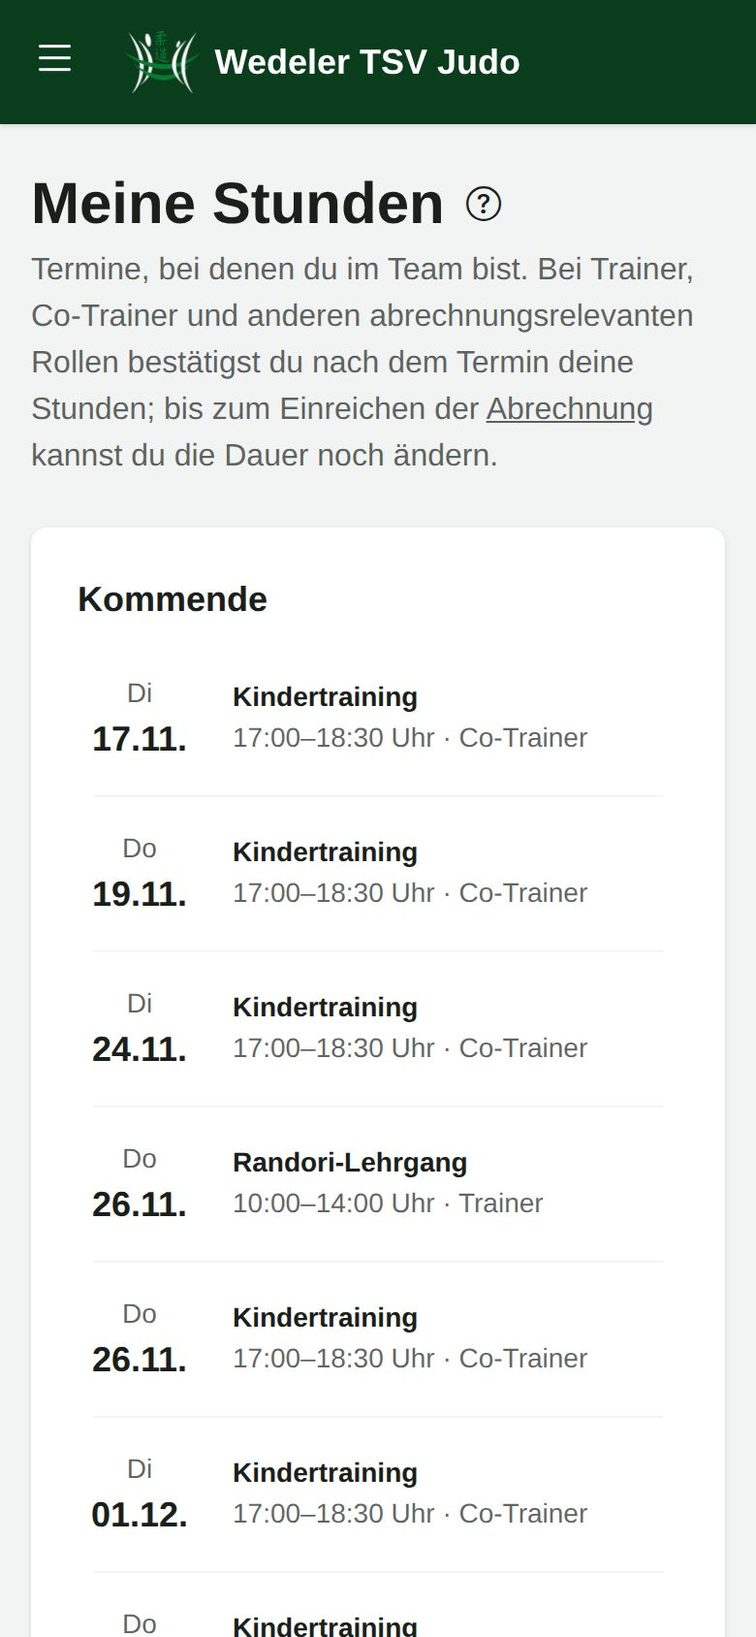
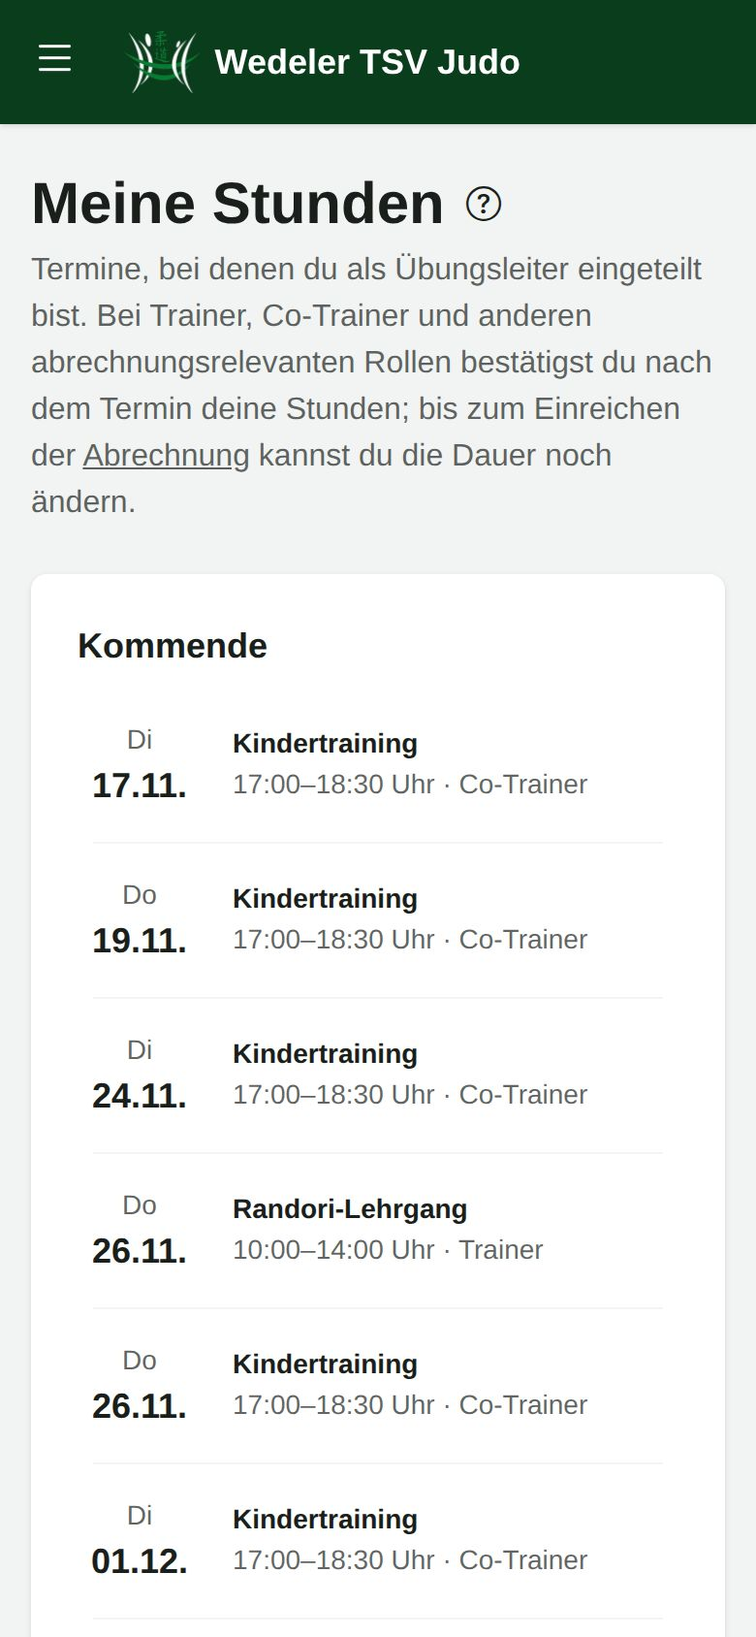
feat: „Übungsleiter“ statt „Team“ in Oberfläche, Hilfe und Doku
Überall, wo Trainer, Co-Trainer, Prüfer oder Betreuer gemeint sind, steht jetzt
„Übungsleiter“. Das Standard-Team eines Zeitplans heißt „feste Übungsleiter“
(„fest einteilen“). Im Code bleibt es bei `team`; CLAUDE.md nennt den Begriff.

Claude-Session: https://claude.ai/code/session_017LHgXea5AxfRcr57bsDwjB

diff --git a/portal/events/templates/events/occurrence_detail.html b/portal/events/templates/events/occurrence_detail.html
@@ -27,7 +27,7 @@
       <div><dt class="text-sm text-base-content/70">Anmeldung</dt><dd>{% if window == "before" %}ab {{ occurrence.registration_opens|date:"d.m.Y H:i" }} Uhr{% elif window == "open" %}offen bis {{ occurrence.registration_closes|date:"d.m.Y H:i" }} Uhr{% else %}geschlossen{% endif %}</dd></div>
       <div><dt class="text-sm text-base-content/70">Plätze</dt><dd>{{ registered }}{% if event.capacity %} von {{ event.capacity }}{% endif %} angemeldet</dd></div>
       {% if event.target_groups.all %}<div><dt class="text-sm text-base-content/70">Für</dt><dd>{% for group in event.target_groups.all %}{{ group }}{% if not forloop.last %}, {% endif %}{% endfor %}</dd></div>{% endif %}
-      <div><dt class="text-sm text-base-content/70">Team</dt><dd>{% for p in team %}{{ p.member.display_name }} ({{ p.role.name }}){% if not forloop.last %}, {% endif %}{% empty %}–{% endfor %}</dd></div>
+      <div><dt class="text-sm text-base-content/70">Übungsleiter</dt><dd>{% for p in team %}{{ p.member.display_name }} ({{ p.role.name }}){% if not forloop.last %}, {% endif %}{% empty %}–{% endfor %}</dd></div>
     </dl>
     {% if event.description %}<p class="whitespace-pre-line">{{ event.description }}</p>{% endif %}
     {% if occurrence.note %}<div role="note" class="alert"><i class="bi bi-info-circle" aria-hidden="true"></i><span>{{ occurrence.note }}</span></div>{% endif %}
@@ -41,7 +41,7 @@
       <li class="list-row items-center px-0">
         <div class="list-col-grow">
           <div class="font-semibold">{{ member_link.member.display_name }}</div>
-          <div class="text-sm text-base-content/70">{% if item.team_role %}im Team als {{ item.team_role.name }}{% elif item.status == "registered" %}angemeldet{% if item.participation.weight %} · {{ item.participation.weight|floatformat:1 }} kg{% endif %}{% elif item.status == "waitlist" %}auf der Warteliste{% elif item.status == "cancelled" %}abgemeldet{% elif item.match == 0 %}passt nicht zur Zielgruppe{% else %}nicht angemeldet{% endif %}</div>
+          <div class="text-sm text-base-content/70">{% if item.team_role %}als {{ item.team_role.name }} eingeteilt{% elif item.status == "registered" %}angemeldet{% if item.participation.weight %} · {{ item.participation.weight|floatformat:1 }} kg{% endif %}{% elif item.status == "waitlist" %}auf der Warteliste{% elif item.status == "cancelled" %}abgemeldet{% elif item.match == 0 %}passt nicht zur Zielgruppe{% else %}nicht angemeldet{% endif %}</div>
         </div>
         {% if item.can_register %}<a class="btn btn-primary btn-sm" href="{% url 'register' occurrence.pk member_link.member.pk %}" aria-label="{{ member_link.member.first_name }} anmelden">Anmelden</a>
         {% elif item.can_unregister %}<form method="post" action="{% url 'unregister' occurrence.pk member_link.member.pk %}">{% csrf_token %}<button class="btn btn-outline btn-sm" aria-label="{{ member_link.member.first_name }} abmelden">Abmelden</button></form>{% endif %}
@@ -53,7 +53,7 @@
 
   {% if lead or can_join_team %}
   <section class="card mb-6 bg-base-100 shadow-sm" aria-labelledby="h-team"><div class="card-body gap-4">
-    <h2 class="card-title" id="h-team">Team</h2>
+    <h2 class="card-title" id="h-team">Übungsleiter</h2>
     {% if team %}
     <ul class="list">
       {% for p in team %}
@@ -65,7 +65,7 @@
       </li>
       {% endfor %}
     </ul>
-    {% else %}<p class="text-base-content/70">Noch niemand im Team.</p>{% endif %}
+    {% else %}<p class="text-base-content/70">Noch keine Übungsleiter eingeteilt.</p>{% endif %}
     {% if team_form %}
     <form method="post" action="{% url 'occurrence_team' occurrence.pk %}" class="flex flex-col gap-4">{% csrf_token %}
       <div class="grid gap-x-4 sm:grid-cols-2">{{ team_form }}</div>

diff --git a/portal/help/templates/help/chapters/veranstaltungen.html b/portal/help/templates/help/chapters/veranstaltungen.html
@@ -1,5 +1,5 @@
 {% load help %}
-<p>Unter <a href="{% url 'event_list' %}">Veranstaltungen</a> planst du Trainings, Wettkämpfe, Lehrgänge und Prüfungen. Übungsleiter sehen die Liste und planen Teams; anlegen und ändern kann die Abteilungsleitung.</p>
+<p>Unter <a href="{% url 'event_list' %}">Veranstaltungen</a> planst du Trainings, Wettkämpfe, Lehrgänge und Prüfungen. Übungsleiter sehen die Liste und teilen sich ein; anlegen und ändern kann die Abteilungsleitung.</p>
 
 <h2 id="anlegen">Veranstaltung anlegen</h2>
 <ol>
@@ -12,22 +12,22 @@
       <li><strong>Später festlegen:</strong> nur die Veranstaltung, Termine ergänzt du danach.</li>
     </ul>
   </li>
-  <li>Optional gleich das Team: Mitglied und Rolle.</li>
+  <li>Optional gleich einen Übungsleiter: Mitglied und Rolle.</li>
 </ol>
 {% screenshot "veranstaltung-anlegen" "Formular Veranstaltung anlegen mit Terminen" %}
 
 <h2 id="einstellungen">Vorlagen, Rollen und Arten</h2>
 <ul>
   <li><strong>Zielgruppen-Vorlagen:</strong> Zielgruppen, die du öfter brauchst, hakst du im Formular bei „Als Vorlage speichern“ an oder legst sie unter Veranstaltungen → Zielgruppen-Vorlagen an. Bei der nächsten Veranstaltung wählst du sie unter „Aus Vorlage übernehmen“. Die Veranstaltung bekommt eine Kopie: Änderst du die Vorlage später, bleiben bestehende Veranstaltungen, wie sie sind. Auf der Veranstaltung siehst du unter „Passende Mitglieder“, wer heute passt.</li>
-  <li><strong>Rollen:</strong> Teilnehmer, Trainer, Co-Trainer, Prüfer, Betreuer … – für welche Arten, welche Benutzerrollen, ob Team und ob abrechnungsrelevant.</li>
+  <li><strong>Rollen:</strong> Teilnehmer, Trainer, Co-Trainer, Prüfer, Betreuer … – für welche Arten, welche Benutzerrollen, ob Übungsleiter-Rolle und ob abrechnungsrelevant.</li>
   <li><strong>Veranstaltungsarten:</strong> Training, Wettkampf, Lehrgang, Prüfung, Sonstiges – erweiterbar.</li>
 </ul>
 
-<h2 id="zeitplaene">Zeitpläne und Standard-Team</h2>
-<p>Je Wochentag gibt es einen Zeitplan mit Standard-Team; kommende Termine übernehmen es. Neue Trainingszeiten: alten Zeitplan mit „Gültig bis“ beenden, neuen anlegen.</p>
+<h2 id="zeitplaene">Zeitpläne und feste Übungsleiter</h2>
+<p>Je Wochentag gibt es einen Zeitplan mit festen Übungsleitern; kommende Termine übernehmen sie. Neue Trainingszeiten: alten Zeitplan mit „Gültig bis“ beenden, neuen anlegen.</p>
 
 <h2 id="gaeste">Gäste</h2>
 <p>Mit „Gäste willkommen“ zeigt die Veranstaltung einen <strong>Anmeldelink</strong> zum Teilen, z. B. an andere Vereine. Gäste bestätigen ihre Anmeldung per Mail und sehen ihre Daten über ihren eigenen Link. Mit <strong>Neuen Link erzeugen</strong> wird der alte ungültig.</p>
 
 <h2 id="absagen">Ferien und Ausfälle</h2>
-<p>Auf der Veranstaltung „Termine absagen“ mit Zeitraum, dann <strong>Termine in diesem Zeitraum absagen</strong>. Angemeldete und Team bekommen eine Nachricht.</p>
+<p>Auf der Veranstaltung „Termine absagen“ mit Zeitraum, dann <strong>Termine in diesem Zeitraum absagen</strong>. Angemeldete und Übungsleiter bekommen eine Nachricht.</p>

diff --git a/e2e/veranstaltungen.spec.ts b/e2e/veranstaltungen.spec.ts
@@ -15,13 +15,13 @@ const TRAINER = { email: "clara@test.local", password: "Sicher-Trainer-789" };
 const PARENTS = { email: "eltern-zwei@test.local", password: "Sicher-Eltern-321" };
 const GUEST = { email: "lena-gast@test.local" };
 
-test("Lehrgang anlegen, Team eintragen, Kind mit Gewicht anmelden, Trainerin sieht Teilnehmer und bestätigt Stunden", async ({ browser }) => {
+test("Lehrgang anlegen, Übungsleiter eintragen, Kind mit Gewicht anmelden, Trainerin sieht Teilnehmer und bestätigt Stunden", async ({ browser }) => {
   const admin = await (await browser.newContext({ storageState: ADMIN_STATE })).newPage();
   await importMembers(admin);
   await ensureYouthGroup(admin);
   await expect(admin.getByText("Passen heute: 3")).toBeVisible();
 
-  // Übungsleiterin einladen und mit ihrem Mitgliedsprofil verknüpfen (Voraussetzung für Team-Rollen)
+  // Übungsleiterin einladen und mit ihrem Mitgliedsprofil verknüpfen (Voraussetzung für Übungsleiter-Rollen)
   await admin.goto("/verwaltung/benutzer/einladen/");
   await admin.getByLabel("E-Mail").fill(TRAINER.email);
   await admin.getByLabel("Vorname").fill("Clara");
@@ -43,7 +43,7 @@ test("Lehrgang anlegen, Team eintragen, Kind mit Gewicht anmelden, Trainerin sie
   await expect(admin.getByRole("link", { name: "Co-Trainer" })).toBeVisible();
   await expectNoA11yViolations(admin);
 
-  // Lehrgang mit Zielgruppe, Pflichtgewicht, Termin und Team in einem Schritt
+  // Lehrgang mit Zielgruppe, Pflichtgewicht, Termin und Übungsleiterin in einem Schritt
   await admin.goto("/veranstaltungen/neu/");
   await admin.getByLabel("Titel").fill("Randori-Lehrgang");
   await admin.getByLabel("Art").selectOption({ label: "Lehrgang" });
@@ -63,12 +63,12 @@ test("Lehrgang anlegen, Team eintragen, Kind mit Gewicht anmelden, Trainerin sie
   await expect(admin.getByText("„Randori-Lehrgang“ angelegt mit 1 Termin.")).toBeVisible();
   await expectNoA11yViolations(admin);
 
-  // Ein weiterer, schon vergangener Termin; das Team kommt am Termin dazu
+  // Ein weiterer, schon vergangener Termin; die Übungsleiterin kommt am Termin dazu
   await admin.getByRole("link", { name: "Termin", exact: true }).click();
   await admin.getByLabel("Beginn", { exact: true }).fill(localDateTime(-1, "10:00"));
   await admin.getByLabel("Ende", { exact: true }).fill(localDateTime(-1, "14:00"));
   await admin.getByRole("button", { name: "Speichern" }).click();
-  await expect(admin.getByText("Termin angelegt. Trag hier das Team ein.")).toBeVisible();
+  await expect(admin.getByText("Termin angelegt. Trag hier die Übungsleiter ein.")).toBeVisible();
   await admin.getByLabel("Mitglied").selectOption({ label: "Clara Clever" });
   await admin.getByLabel("Rolle").selectOption({ label: "Trainer" });
   await admin.getByRole("button", { name: "Eintragen oder Rolle ändern" }).click();

diff --git a/portal/events/templates/events/event_detail.html b/portal/events/templates/events/event_detail.html
@@ -40,7 +40,7 @@
 
   <section class="card mb-6 bg-base-100 shadow-sm" aria-labelledby="h-zeitplaene"><div class="card-body gap-4">
     <div class="flex flex-wrap items-center justify-between gap-3">
-      <div><h2 class="card-title" id="h-zeitplaene">Zeitpläne</h2><p class="text-sm text-base-content/70">Jeder Zeitplan hat sein Standard-Team; kommende Termine übernehmen es.</p></div>
+      <div><h2 class="card-title" id="h-zeitplaene">Zeitpläne</h2><p class="text-sm text-base-content/70">Jeder Zeitplan hat feste Übungsleiter; kommende Termine übernehmen sie.</p></div>
       {% if can_manage %}<a class="btn btn-outline btn-primary btn-sm" href="{% url 'schedule_create' event.pk %}"><i class="bi bi-plus-lg" aria-hidden="true"></i> Zeitplan</a>{% endif %}
     </div>
     {% for schedule in schedules %}
@@ -60,17 +60,17 @@
         {% for entry in schedule.team.all %}
         <li class="list-row items-center px-0">
           <div class="list-col-grow"><div class="font-semibold">{{ entry.member.display_name }}</div><div class="text-sm text-base-content/70">{{ entry.role.name }}</div></div>
-          <form method="post" action="{% url 'schedule_team_remove' event.pk schedule.pk entry.pk %}">{% csrf_token %}<button class="btn btn-outline btn-sm" aria-label="{{ entry.member.display_name }} aus dem Standard-Team von {{ schedule }} nehmen">Entfernen</button></form>
+          <form method="post" action="{% url 'schedule_team_remove' event.pk schedule.pk entry.pk %}">{% csrf_token %}<button class="btn btn-outline btn-sm" aria-label="{{ entry.member.display_name }} bei {{ schedule }} nicht mehr fest einteilen">Entfernen</button></form>
         </li>
         {% endfor %}
       </ul>
-      {% else %}<p class="mt-2 text-sm text-base-content/70">Noch kein Standard-Team.</p>{% endif %}
+      {% else %}<p class="mt-2 text-sm text-base-content/70">Noch keine festen Übungsleiter.</p>{% endif %}
       <form method="post" action="{% url 'schedule_team' event.pk schedule.pk %}" class="mt-2 flex flex-col gap-2">{% csrf_token %}
         <div class="grid gap-x-4 sm:grid-cols-2">{{ schedule.team_form }}</div>
-        <div><button class="btn btn-primary btn-sm" type="submit">Ins Standard-Team</button></div>
+        <div><button class="btn btn-primary btn-sm" type="submit">Fest einteilen</button></div>
       </form>
     </div>
-    {% empty %}<p class="text-base-content/70">Kein Zeitplan – die Veranstaltung hat nur einzelne Termine. Deren Team trägst du am Termin ein.</p>{% endfor %}
+    {% empty %}<p class="text-base-content/70">Kein Zeitplan – die Veranstaltung hat nur einzelne Termine. Die Übungsleiter trägst du am Termin ein.</p>{% endfor %}
   </div></section>
 
   <section class="card mb-6 bg-base-100 shadow-sm" aria-labelledby="h-termine"><div class="card-body gap-4">

diff --git a/portal/help/templates/help/chapters/team.html b/portal/help/templates/help/chapters/team.html
@@ -1,20 +1,20 @@
 {% load help %}
-<p>Als Übungsleiter bist du an Terminen im <strong>Team</strong>: als Trainer, Co-Trainer, Prüfer oder Betreuer – je nach Veranstaltung. Voraussetzung ist, dass dein Zugang mit deinem eigenen Mitgliedsprofil verknüpft ist (das macht die Abteilungsleitung).</p>
+<p>Als <strong>Übungsleiter</strong> bist du an Terminen eingeteilt: als Trainer, Co-Trainer, Prüfer oder Betreuer – je nach Veranstaltung. Voraussetzung ist, dass dein Zugang mit deinem eigenen Mitgliedsprofil verknüpft ist (das macht die Abteilungsleitung).</p>
 
 <h2 id="eintragen">Sich eintragen</h2>
 <ol>
   <li>Öffne den Termin (über <a href="{% url 'agenda' %}">Termine</a> oder <a href="{% url 'my_hours' %}">Meine Stunden</a>).</li>
   <li>Tippe auf <strong>Mich als Trainer eintragen</strong> bzw. <strong>Mich als Co-Trainer eintragen</strong>.</li>
 </ol>
-<p>Bei Trainings mit festem Zeitplan trägt die Abteilungsleitung meist ein Standard-Team ein; dann stehst du automatisch bei allen kommenden Terminen.</p>
+<p>Bei Trainings mit festem Zeitplan teilt die Abteilungsleitung meist feste Übungsleiter ein; dann stehst du automatisch bei allen kommenden Terminen.</p>
 
 <h2 id="termin">Am Termin</h2>
-{% screenshot "termin-team" "Termin aus Sicht des Teams" %}
+{% screenshot "termin-team" "Termin aus Sicht der Übungsleiter" %}
 <ul>
   <li><strong>Teilnehmerliste:</strong> Wer angemeldet ist, mit Hinweisen und Telefon für Notfälle (bis 14 Tage nach dem Termin).</li>
   <li><strong>Hinweis speichern:</strong> Eine kurze Info für alle, z. B. „Bitte Kata-Gürtel mitbringen“.</li>
-  <li><strong>Absagen:</strong> Der Termin fällt aus, alle Angemeldeten und das Team bekommen eine Nachricht. Mit <strong>Findet doch statt</strong> nimmst du die Absage zurück.</li>
+  <li><strong>Absagen:</strong> Der Termin fällt aus, alle Angemeldeten und Übungsleiter bekommen eine Nachricht. Mit <strong>Findet doch statt</strong> nimmst du die Absage zurück.</li>
   <li><strong>Ausnahme eintragen:</strong> Jemanden anmelden, der nicht zur Zielgruppe passt oder nach dem Anmeldeschluss kommt.</li>
   <li><strong>Gast eintragen:</strong> Bei Veranstaltungen mit Gästen trägst du Externe mit Name und Notfallkontakt ein. Sie bekommen eine Mail mit ihrem eigenen Link.</li>
-  <li><strong>Eintragen oder Rolle ändern / Austragen:</strong> Das Team des Termins anpassen.</li>
+  <li><strong>Eintragen oder Rolle ändern / Austragen:</strong> Die Übungsleiter des Termins anpassen.</li>
 </ul>

diff --git a/portal/help/templates/help/chapters/stunden.html b/portal/help/templates/help/chapters/stunden.html
@@ -1,5 +1,5 @@
 {% load help %}
-<p>Unter <a href="{% url 'my_hours' %}">Meine Stunden</a> siehst du deine Termine im Team. Bei Trainer, Co-Trainer und anderen abrechnungsrelevanten Rollen bestätigst du nach dem Termin deine Stunden; daraus entsteht die monatliche Abrechnung.</p>
+<p>Unter <a href="{% url 'my_hours' %}">Meine Stunden</a> siehst du deine Termine als Übungsleiter. Bei Trainer, Co-Trainer und anderen abrechnungsrelevanten Rollen bestätigst du nach dem Termin deine Stunden; daraus entsteht die monatliche Abrechnung.</p>
 {% screenshot "stunden" "Meine Stunden mit bestätigten und offenen Terminen" %}
 
 <h2 id="bestaetigen">Stunden bestätigen</h2>
@@ -14,9 +14,9 @@
 <h2 id="nicht-dabei">Nicht dabei?</h2>
 <p>Lief es anders als geplant, tippe in der Erinnerung, unter <a href="{% url 'my_hours' %}">Meine Stunden</a> oder am Termin auf <strong>Nicht dabei?</strong> und wähle:</p>
 <ul>
-  <li><strong>Ich war nicht dabei – austragen:</strong> Du verschwindest aus dem Team des Termins.</li>
+  <li><strong>Ich war nicht dabei – austragen:</strong> Du bist als Übungsleiter des Termins ausgetragen.</li>
   <li><strong>Ich wurde vertreten:</strong> Wähle, wer dich vertreten hat und in welcher Rolle. Die Vertretung wird eingetragen und bekommt eine Push-Benachrichtigung, um ihre Stunden zu bestätigen.</li>
-  <li><strong>Der Termin hat nicht stattgefunden – absagen:</strong> Der Termin gilt als ausgefallen. Teilnehmer bekommen keine Nachricht mehr. Hat schon jemand anderes im Team bestätigt, sprecht euch bitte vorher ab.</li>
+  <li><strong>Der Termin hat nicht stattgefunden – absagen:</strong> Der Termin gilt als ausgefallen. Teilnehmer bekommen keine Nachricht mehr. Hat schon ein anderer Übungsleiter bestätigt, sprecht euch bitte vorher ab.</li>
 </ul>
 {% screenshot "nicht-dabei" "Seite Nicht dabei? mit Austragen, Vertretung und Absage" %}
 

diff --git a/portal/events/templates/events/my_hours.html b/portal/events/templates/events/my_hours.html
@@ -4,18 +4,18 @@
 {% block content %}
 <div class="mx-auto max-w-3xl">
   <div class="flex items-center gap-1"><h1 class="text-3xl font-bold">Meine Stunden</h1>{% help_link "stunden" %}</div>
-  <p class="mt-1 mb-6 text-base-content/70">Termine, bei denen du im Team bist. Bei Trainer, Co-Trainer und anderen abrechnungsrelevanten Rollen bestätigst du nach dem Termin deine Stunden; bis zum Einreichen der <a class="link" href="{% url 'billing_index' %}">Abrechnung</a> kannst du die Dauer noch ändern.</p>
+  <p class="mt-1 mb-6 text-base-content/70">Termine, bei denen du als Übungsleiter eingeteilt bist. Bei Trainer, Co-Trainer und anderen abrechnungsrelevanten Rollen bestätigst du nach dem Termin deine Stunden; bis zum Einreichen der <a class="link" href="{% url 'billing_index' %}">Abrechnung</a> kannst du die Dauer noch ändern.</p>
   <section class="card mb-6 bg-base-100 shadow-sm" aria-labelledby="h-kommend"><div class="card-body">
     <h2 class="card-title" id="h-kommend">Kommende</h2>
     {% if coming %}
     <ul class="list">{% for p in coming %}{% include "events/_hours.html" %}{% endfor %}</ul>
-    {% else %}<p class="text-base-content/70">Gerade keine Termine im Team geplant.</p>{% endif %}
+    {% else %}<p class="text-base-content/70">Gerade keine Termine als Übungsleiter geplant.</p>{% endif %}
   </div></section>
   <section class="card bg-base-100 shadow-sm" aria-labelledby="h-vergangen"><div class="card-body">
     <h2 class="card-title" id="h-vergangen">Vergangen</h2>
     {% if past %}
     <ul class="list">{% for p in past %}{% include "events/_hours.html" %}{% endfor %}</ul>
-    {% else %}<p class="text-base-content/70">Keine Termine im Team.</p>{% endif %}
+    {% else %}<p class="text-base-content/70">Keine Termine als Übungsleiter.</p>{% endif %}
   </div></section>
 </div>
 {% endblock %}

diff --git a/portal/events/templates/events/role_list.html b/portal/events/templates/events/role_list.html
@@ -9,7 +9,7 @@
   </div>
   {% if without_member %}
   <div role="alert" class="alert alert-warning mb-6"><i class="bi bi-exclamation-triangle" aria-hidden="true"></i>
-    <span>Ohne eigenes Mitgliedsprofil können diese Benutzer keine Team-Rolle übernehmen: {% for user in without_member %}{{ user.display_name }}{% if not forloop.last %}, {% endif %}{% endfor %}. Verknüpfe sie unter „Mitglieder“ als „eigenes Profil“.</span>
+    <span>Ohne eigenes Mitgliedsprofil können diese Benutzer keine Übungsleiter-Rolle übernehmen: {% for user in without_member %}{{ user.display_name }}{% if not forloop.last %}, {% endif %}{% endfor %}. Verknüpfe sie unter „Mitglieder“ als „eigenes Profil“.</span>
   </div>
   {% endif %}
   <section class="card bg-base-100 shadow-sm" aria-labelledby="h-rollen"><div class="card-body">
@@ -22,7 +22,7 @@
           <div class="text-sm text-base-content/70">{% for event_type in role.event_types.all %}{{ event_type.name }}{% if not forloop.last %}, {% endif %}{% empty %}alle Arten{% endfor %} · {{ role.get_user_roles_display }}</div>
           <div class="mt-1 flex flex-wrap gap-1">
             {% if role.is_default %}<span class="badge badge-soft badge-primary badge-sm">bei Anmeldung</span>{% endif %}
-            {% if role.is_team %}<span class="badge badge-neutral badge-sm">Team</span>{% endif %}
+            {% if role.is_team %}<span class="badge badge-neutral badge-sm">Übungsleiter</span>{% endif %}
             {% if role.is_billable %}<span class="badge badge-neutral badge-sm">abrechnungsrelevant</span>{% endif %}
             {% if not role.is_active %}<span class="badge badge-ghost badge-sm">inaktiv</span>{% endif %}
           </div>

diff --git a/portal/templates/core/home.html b/portal/templates/core/home.html
@@ -36,7 +36,7 @@
   <a class="card bg-base-100 shadow-sm transition-shadow hover:shadow-md" href="{% url 'my_hours' %}">
     <div class="card-body flex-row items-center gap-4">
       <span class="pikto pikto-judo-training" aria-hidden="true"></span>
-      <div><h2 class="card-title text-base">Meine Stunden</h2><p class="text-sm text-base-content/70">Termine im Team und bestätigte Stunden</p></div>
+      <div><h2 class="card-title text-base">Meine Stunden</h2><p class="text-sm text-base-content/70">Termine als Übungsleiter und bestätigte Stunden</p></div>
     </div>
   </a>
   {% endif %}
@@ -60,7 +60,7 @@
   <a class="card bg-base-100 shadow-sm transition-shadow hover:shadow-md" href="{% url 'event_list' %}">
     <div class="card-body flex-row items-center gap-4">
       <span class="pikto pikto-judo-gemeinschaft" aria-hidden="true"></span>
-      <div><h2 class="card-title text-base">Veranstaltungen</h2><p class="text-sm text-base-content/70">Zeitpläne, Zielgruppen und Teams</p></div>
+      <div><h2 class="card-title text-base">Veranstaltungen</h2><p class="text-sm text-base-content/70">Zeitpläne, Zielgruppen und Übungsleiter</p></div>
     </div>
   </a>
   {% endif %}

diff --git a/portal/events/templates/events/_privacy.html b/portal/events/templates/events/_privacy.html
@@ -2,7 +2,7 @@
   <summary class="collapse-title font-semibold">Datenschutzhinweis</summary>
   <div class="collapse-content text-sm">
     <p>Die Judo-Abteilung des Wedeler TSV e.V. speichert deine Angaben nur für die Organisation dieser Veranstaltung: Name, Jahrgang, Geschlecht, Graduierung, Gewicht und Verein für die Einteilung, E-Mail für Bestätigung und Änderungen, Telefon und Erziehungsberechtigte für Notfälle.</p>
-    <p class="mt-2">Sehen können die Daten die Abteilungsleitung und das Team der Termine. Über den Link in deiner Mail siehst und änderst du deine Angaben oder sagst ab. 90 Tage nach deinem letzten Termin werden sie gelöscht, unbestätigte Anmeldungen schon nach 24 Stunden.</p>
+    <p class="mt-2">Sehen können die Daten die Abteilungsleitung und die Übungsleiter der Termine. Über den Link in deiner Mail siehst und änderst du deine Angaben oder sagst ab. 90 Tage nach deinem letzten Termin werden sie gelöscht, unbestätigte Anmeldungen schon nach 24 Stunden.</p>
     <p class="mt-2">Fragen und Auskunft: <a class="link" href="mailto:judo@wedeler-tsv.de">judo@wedeler-tsv.de</a></p>
   </div>
 </details>

diff --git a/portal/events/templates/events/role_edit.html b/portal/events/templates/events/role_edit.html
@@ -4,7 +4,7 @@
 {% block back_url %}{% url 'role_list' %}{% endblock %}
 {% block cancel_url %}{% url 'role_list' %}{% endblock %}
 {% block back_label %}Rollen{% endblock %}
-{% block intro %}<p class="text-sm text-base-content/70">Jede Person hat an einem Termin genau eine Rolle. Team-Rollen übernimmt ein Mitglied über seinen eigenen Zugang, wenn dieser eine der gewählten Benutzerrollen hat.</p>{% endblock %}
+{% block intro %}<p class="text-sm text-base-content/70">Jede Person hat an einem Termin genau eine Rolle. Übungsleiter-Rollen übernimmt ein Mitglied über seinen eigenen Zugang, wenn dieser eine der gewählten Benutzerrollen hat.</p>{% endblock %}
 {% block after %}{% if role and not role.is_default %}
 <form method="post" action="{% url 'role_delete' role.pk %}" class="mt-4">{% csrf_token %}<button class="btn btn-ghost btn-error btn-sm"><i class="bi bi-trash" aria-hidden="true"></i> Rolle löschen</button></form>
 {% endif %}{% endblock %}

diff --git a/portal/events/templates/events/event_list.html b/portal/events/templates/events/event_list.html
@@ -3,7 +3,7 @@
 {% block title %}Veranstaltungen{% endblock %}
 {% block content %}
 <div class="mb-6 flex flex-wrap items-center justify-between gap-3">
-  <div><div class="flex items-center gap-1"><h1 class="text-3xl font-bold">Veranstaltungen</h1>{% help_link "veranstaltungen" %}</div><p class="mt-1 text-base-content/70">Trainings, Wettkämpfe, Lehrgänge und Prüfungen mit ihren Terminen und Teams.</p></div>
+  <div><div class="flex items-center gap-1"><h1 class="text-3xl font-bold">Veranstaltungen</h1>{% help_link "veranstaltungen" %}</div><p class="mt-1 text-base-content/70">Trainings, Wettkämpfe, Lehrgänge und Prüfungen mit ihren Terminen und Übungsleitern.</p></div>
   {% if can_manage %}
   <div class="flex flex-wrap gap-2">
     <a class="btn btn-primary" href="{% url 'event_create' %}"><i class="bi bi-calendar-plus" aria-hidden="true"></i> Veranstaltung anlegen</a>
